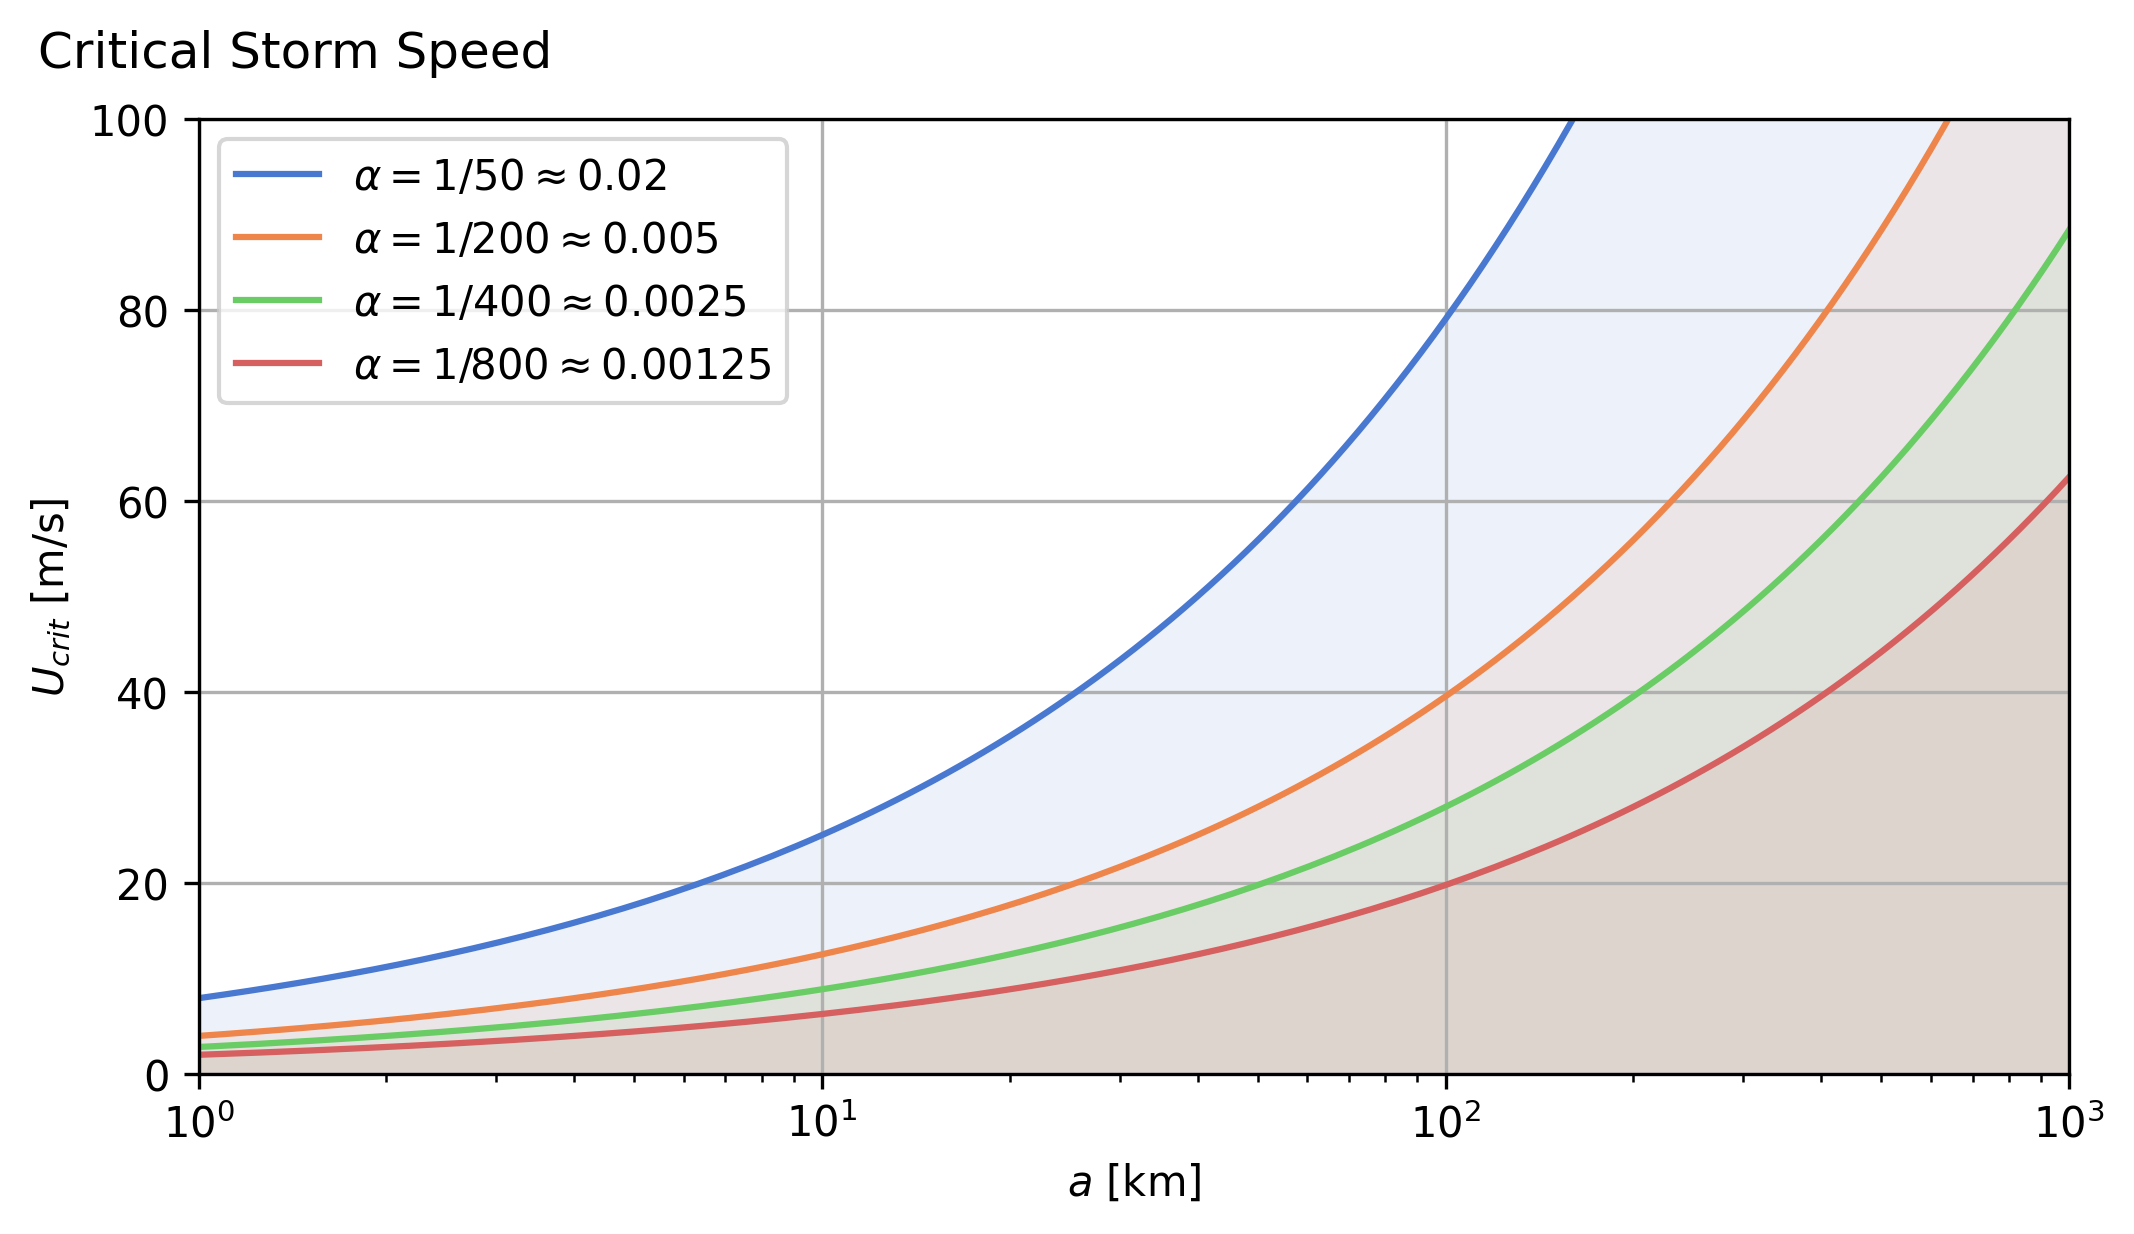
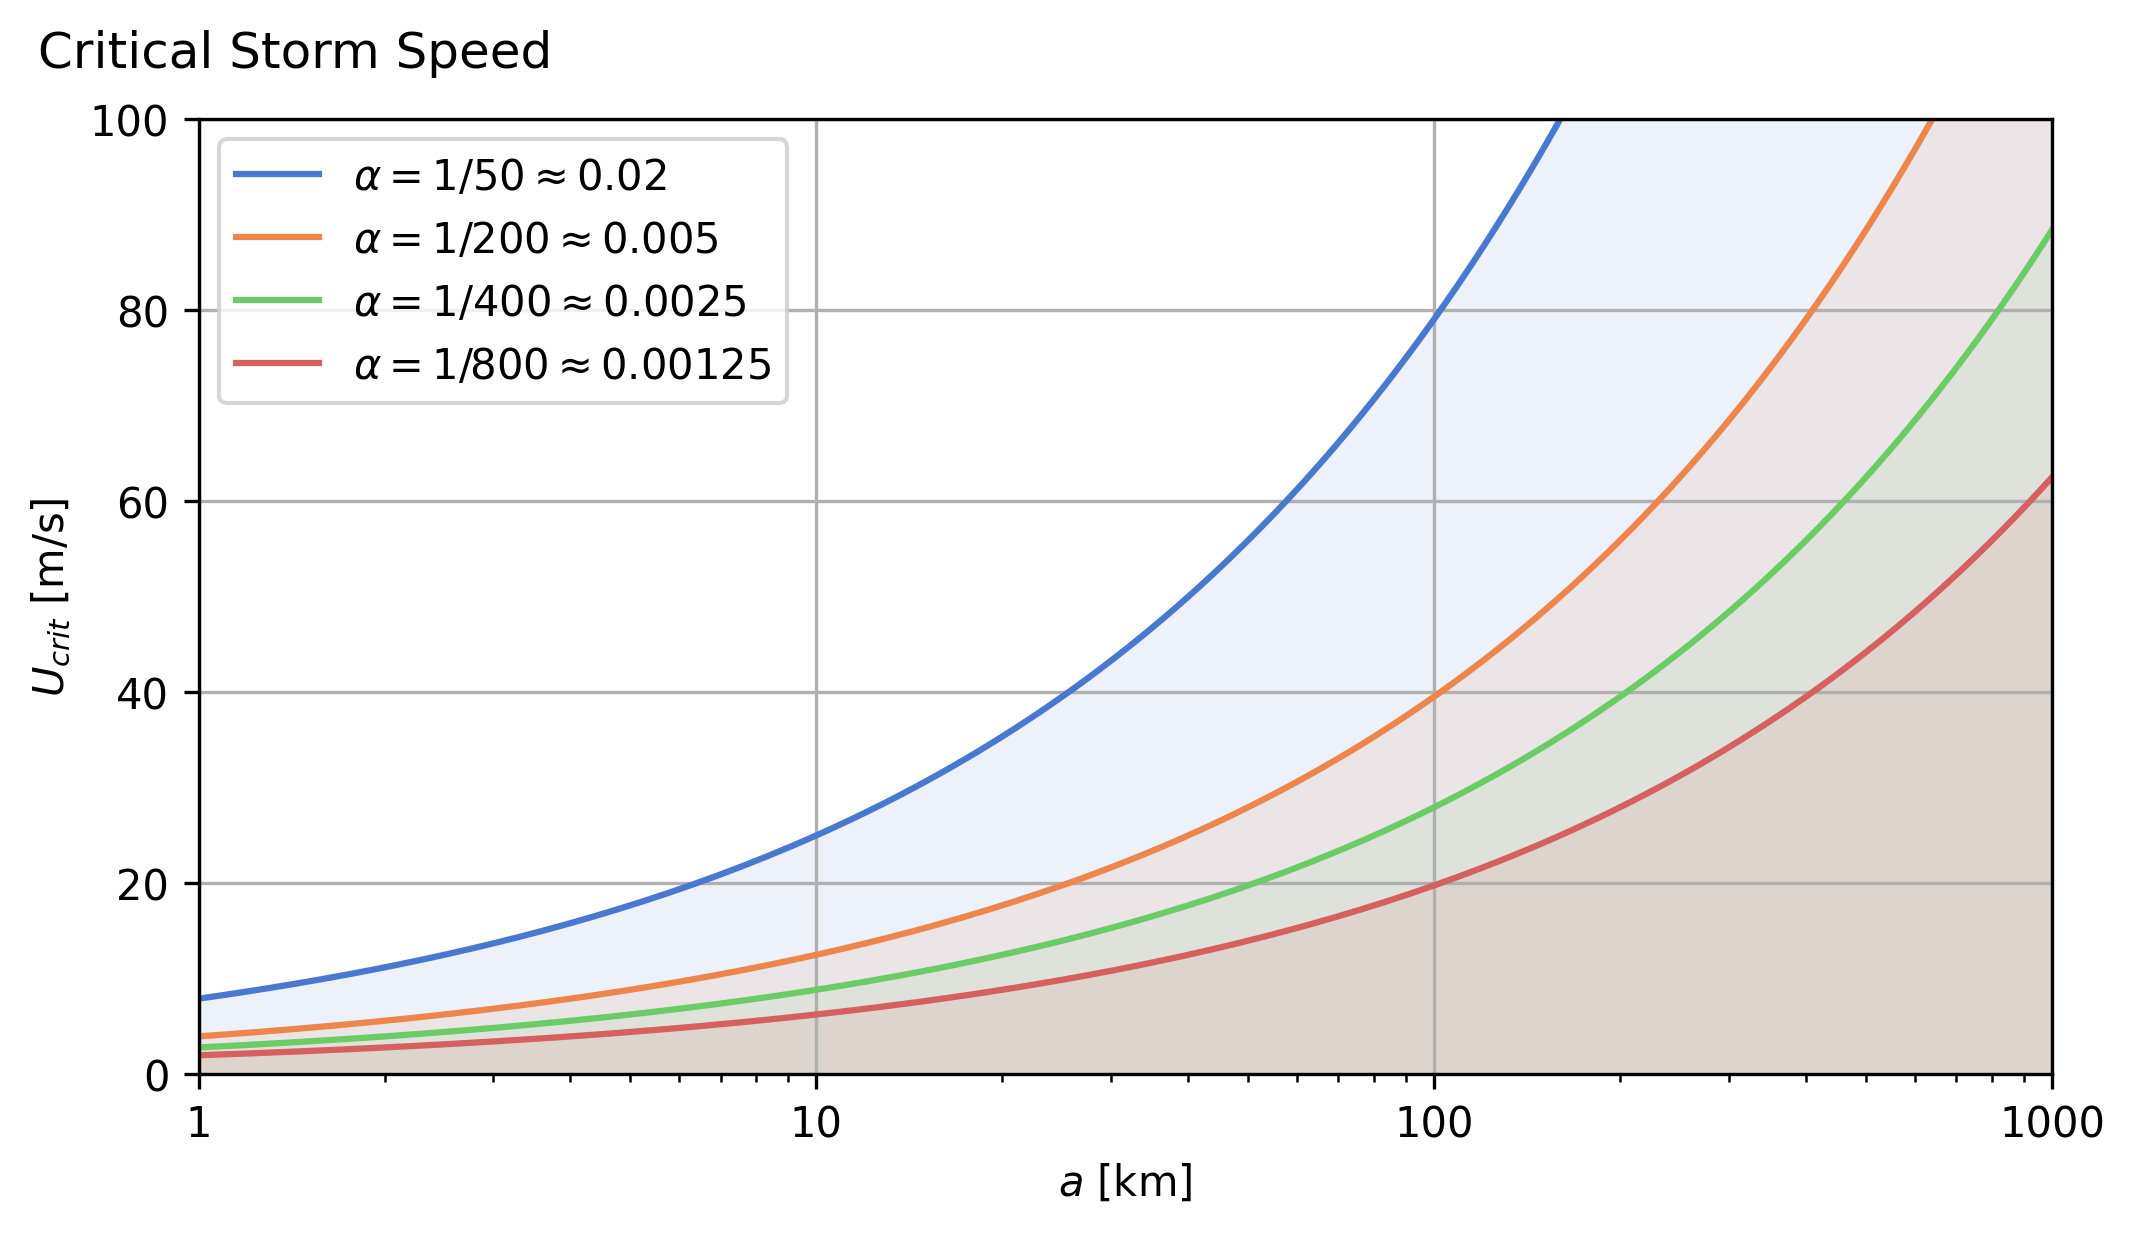
update figures

diff --git a/theory/theory_part1.py b/theory/theory_part1.py
@@ -4,6 +4,7 @@ import os
 import sys
 
 import matplotlib.pyplot as plt
+import matplotlib.ticker as mticker
 import numpy as np
 import numpy.typing as npt
 
@@ -66,6 +67,8 @@ def theory_figure_speed_vs_size(
     plt.grid()
     plt.ylim(0, 100)
     plt.xlim(1e0, 1e3)
+    plt.gca().xaxis.set_major_formatter(mticker.ScalarFormatter())
+    plt.ticklabel_format(axis="both", style="plain")
     fig.get_layout_engine().execute(fig)
     plt.savefig(savename, bbox_inches="tight", dpi=FIG_DPI, pil_kwargs=FIG_PIL_KWARGS)
 
@@ -120,8 +123,6 @@ def theory_figure_wavelength_vs_size(
     plt.legend()
     plt.xlabel("$a$ [km]")
     plt.ylabel("$\\lambda$ [km]")
-    plt.xticks(np.arange(0, 301, 100))
-    plt.yticks(np.arange(0, 601, 200))
     plt.xlim(0, 300)
     plt.ylim(0, 700)
     plt.grid()
@@ -170,8 +171,6 @@ def theory_figure_wavelength_vs_velocity(
     plt.legend()
     plt.xlabel("$U$ [m/s]")
     plt.ylabel("$\\lambda$ [km]")
-    # plt.xticks(np.arange(0, 301, 100))
-    # plt.yticks(np.arange(0, 601, 200))
     plt.xlim(velocity.min(), velocity.max())
     plt.ylim(0, 700)
     plt.grid()
@@ -229,7 +228,7 @@ if __name__ == "__main__":
     # Parameters
     a = np.logspace(2, 6, 201)
     alpha = np.sort(np.array([1 / 50, 1 / 400, 1 / 200, 1 / 800]))[::-1]
-    velocity = np.linspace(0, 100, 201)
+    velocity = np.linspace(0, 60, 201)
 
     # Figures
     theory_figure_speed_vs_size(a, alpha)
